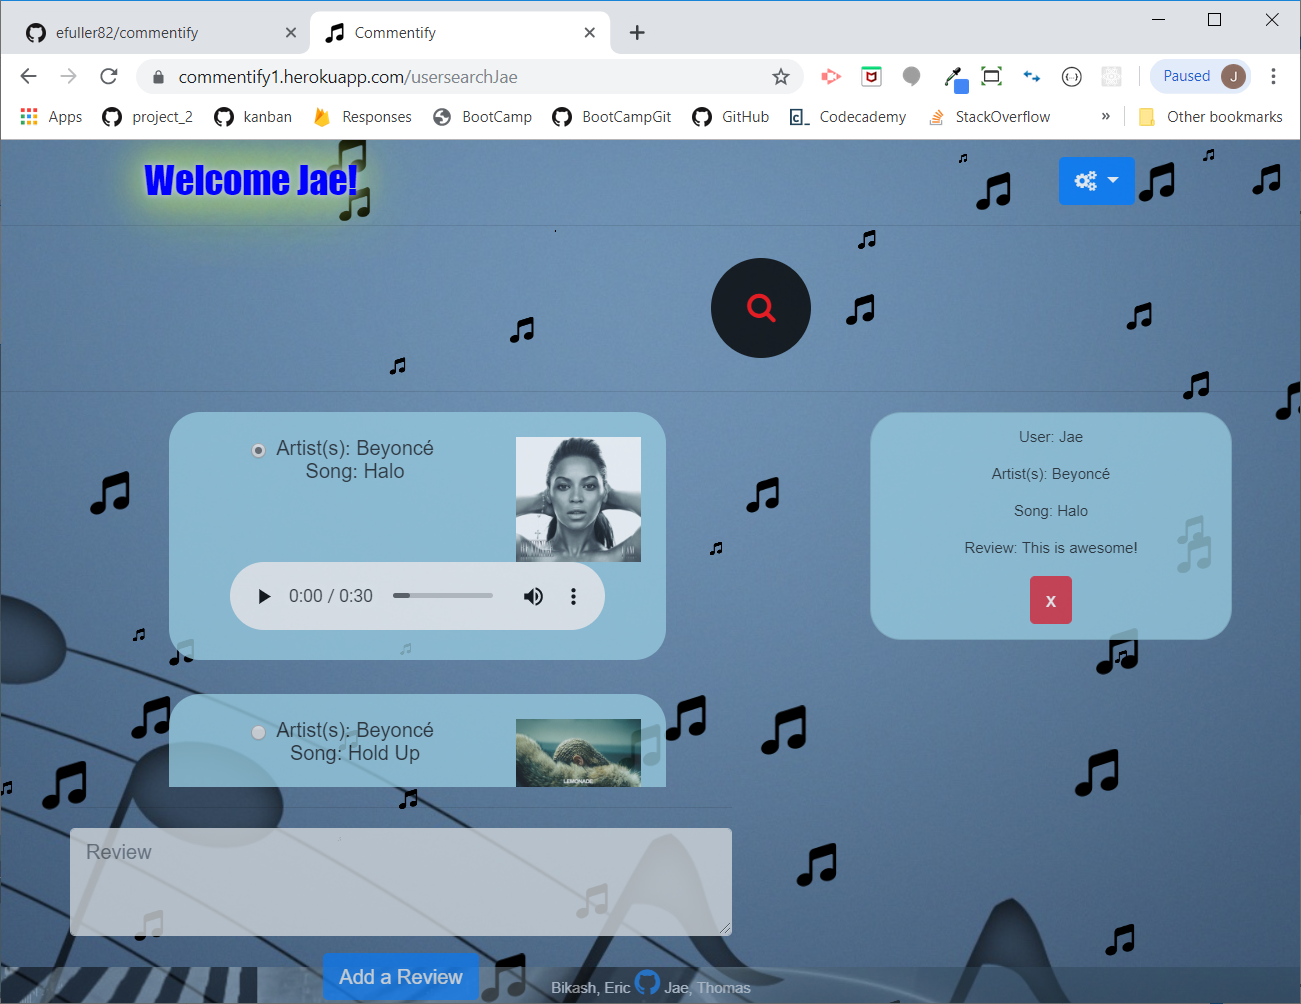
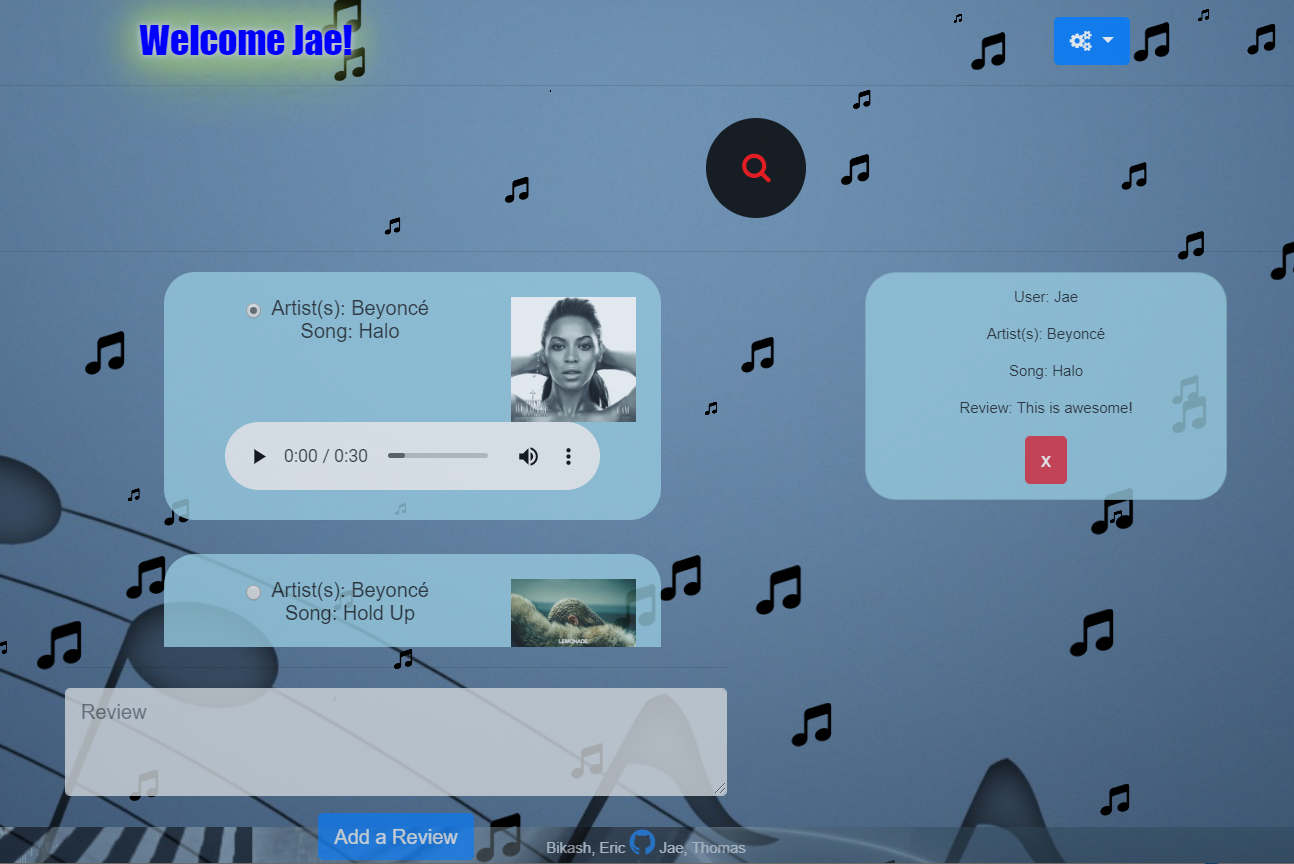
Adding last pic

diff --git a/README.md b/README.md
@@ -38,6 +38,8 @@ Home screen for searching your favorite artist, song, etc. You can also add your
 
 There are a few tabs in which you can navigate too such as reviews, which will populate a new screen with user reviews that have alreday been added as well as an option to write your own review. If you want to go back to home screen you can always clck the same settings tab and go back to song search which will take you back to the home screen.
 
+![SignIn](/readmePics/pic_03.png)
+
 # Future updates
 * We started with oauth2 which is an authorization program that works well with google apis, but time didnt permit it perfecting it so we scratched that for the meantime but will ultimately add it later.
 * The read me is far from perfect but will be fully detailed with images for each step as well as a cleaner step by step process of installation and getting started once I can figure out the image links/gifs.
